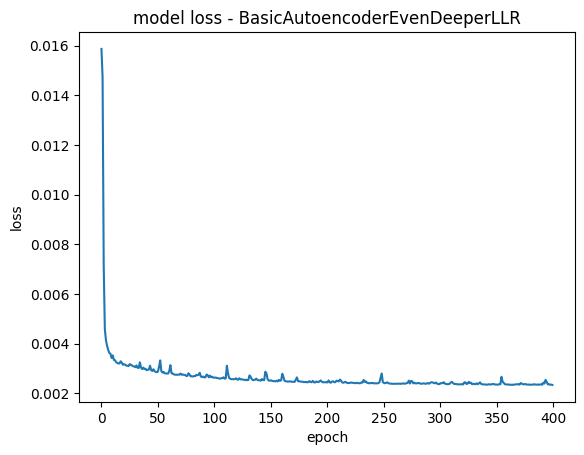
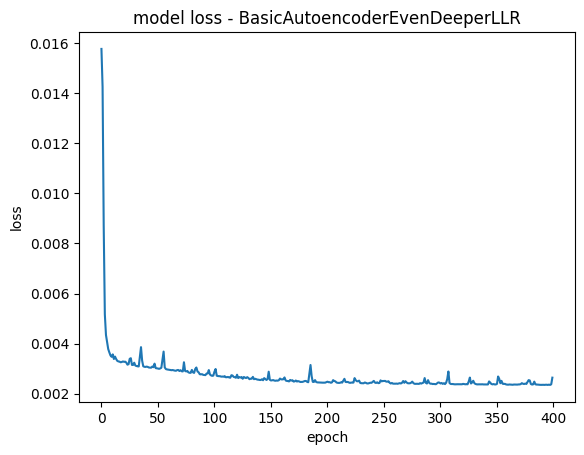
Added deeper model with further lowered learning rate

diff --git a/Models/BasicAutoencoderEvenDeeperExtraLLR.py b/Models/BasicAutoencoderEvenDeeperExtraLLR.py
@@ -1,0 +1,101 @@
+import numpy as np
+from Models.BaseModel import BaseModel
+
+from keras.layers import Input, Reshape, Dense, Flatten
+from keras.layers import Activation, Conv2D, MaxPooling2D, UpSampling2D, PReLU
+from keras.initializers import Constant
+from keras.models import Model
+from keras.callbacks import History
+from keras.optimizers import Adam
+
+'''
+Basic Convolutional Autoencoder, especially deep, the encoding is really small
+With even further decreased learning rate
+
+@Author: Stepan Benes
+'''
+
+class BasicAutoencoderEvenDeeperExtraLLR(BaseModel):
+
+    def __init__(self):
+        super().__init__()
+        self.name = "BasicAutoencoderEvenDeeperExtraLLR"
+        return
+
+    # Custom optimizer learning rate to see if it improves anything
+    def compile_net(self):
+        opt = Adam(learning_rate=0.00001)
+        self.model.compile(optimizer=opt, loss='mse')
+        self.model.summary()
+        return
+
+    def create_net(self, input_shape):
+        net_input = Input(shape=input_shape)
+        x = Conv2D(self.filters, (3, 3), padding='same')(net_input)
+        x = PReLU(alpha_initializer=Constant(value=0.25))(x)
+        x = MaxPooling2D((2, 2), padding='same')(x)
+
+        x = Conv2D(self.filters, (3, 3), padding='same')(x)
+        x = PReLU(alpha_initializer=Constant(value=0.25))(x)
+        x = MaxPooling2D((2, 2), padding='same')(x)
+
+        x = Conv2D(self.filters, (3, 3), padding='same')(x)
+        x = PReLU(alpha_initializer=Constant(value=0.25))(x)
+        x = MaxPooling2D((2, 2), padding='same')(x)
+
+        x = Conv2D(self.filters, (3, 3), padding='same')(x)
+        x = PReLU(alpha_initializer=Constant(value=0.25))(x)
+        x = MaxPooling2D((2, 2), padding='same')(x)
+
+        x = Conv2D(self.filters, (3, 3), padding='same')(x)
+        x = PReLU(alpha_initializer=Constant(value=0.25))(x)
+        x = MaxPooling2D((2, 2), padding='same')(x)
+
+        x = Conv2D(self.filters, (3, 3), padding='same')(x)
+        x = PReLU(alpha_initializer=Constant(value=0.25))(x)
+        x = MaxPooling2D((2, 2), padding='same')(x)
+
+        x = Conv2D(self.filters, (3, 3), padding='same')(x)
+        x = PReLU(alpha_initializer=Constant(value=0.25))(x)
+        x = MaxPooling2D((2, 2), padding='same')(x)
+
+        x = Conv2D(self.filters, (3, 3), padding='same')(x)
+        x = PReLU(alpha_initializer=Constant(value=0.25))(x)
+        self.encoded = MaxPooling2D((2, 2), padding='same')(x)
+
+        # And now the decoder part
+        x = Conv2D(self.filters, (3, 3), padding='same')(self.encoded)
+        x = PReLU(alpha_initializer=Constant(value=0.25))(x)
+        x = UpSampling2D((2, 2))(x)
+
+        x = Conv2D(self.filters, (3, 3), padding='same')(x)
+        x = PReLU(alpha_initializer=Constant(value=0.25))(x)
+        x = UpSampling2D((2, 2))(x)
+
+        x = Conv2D(self.filters, (3, 3), padding='same')(x)
+        x = PReLU(alpha_initializer=Constant(value=0.25))(x)
+        x = UpSampling2D((2, 2))(x)
+
+        x = Conv2D(self.filters, (3, 3), padding='same')(x)
+        x = PReLU(alpha_initializer=Constant(value=0.25))(x)
+        x = UpSampling2D((2, 2))(x)
+
+        x = Conv2D(self.filters, (3, 3), padding='same')(x)
+        x = PReLU(alpha_initializer=Constant(value=0.25))(x)
+        x = UpSampling2D((2, 2))(x)
+
+        x = Conv2D(self.filters, (3, 3), padding='same')(x)
+        x = PReLU(alpha_initializer=Constant(value=0.25))(x)
+        x = UpSampling2D((2, 2))(x)
+
+        x = Conv2D(self.filters, (3, 3), padding='same')(x)
+        x = PReLU(alpha_initializer=Constant(value=0.25))(x)
+        x = UpSampling2D((2, 2))(x)
+
+        x = Conv2D(self.filters, (3, 3), padding='same')(x)
+        x = PReLU(alpha_initializer=Constant(value=0.25))(x)
+        x = UpSampling2D((2, 2))(x)
+        self.decoded = Conv2D(1, (3, 3), activation='sigmoid', padding='same')(x)
+
+        self.model = Model(net_input, self.decoded)
+        return

diff --git a/autoencoder_tester.py b/autoencoder_tester.py
@@ -10,6 +10,7 @@ from Models.BasicAutoencoderDeeper import BasicAutoencoderDeeper
 from Models.HighStrideAutoencoderDeeper import HighStrideAutoencoderDeeper
 from Models.BasicAutoencoderEvenDeeper import BasicAutoencoderEvenDeeper
 from Models.BasicAutoencoderEvenDeeperLLR import BasicAutoencoderEvenDeeperLLR
+from Models.BasicAutoencoderEvenDeeperExtraLLR import BasicAutoencoderEvenDeeperExtraLLR
 
 import matplotlib.pyplot as plt
 
@@ -89,6 +90,8 @@ elif desired_model == "BasicAutoencoderEvenDeeper":
     model = BasicAutoencoderEvenDeeper()
 elif desired_model == "BasicAutoencoderEvenDeeperLLR":
     model = BasicAutoencoderEvenDeeperLLR()
+elif desired_model == "BasicAutoencoderEvenDeeperExtraLLR":
+    model = BasicAutoencoderEvenDeeperExtraLLR()
 else:
     print("No model specified")
     sys.exit()
